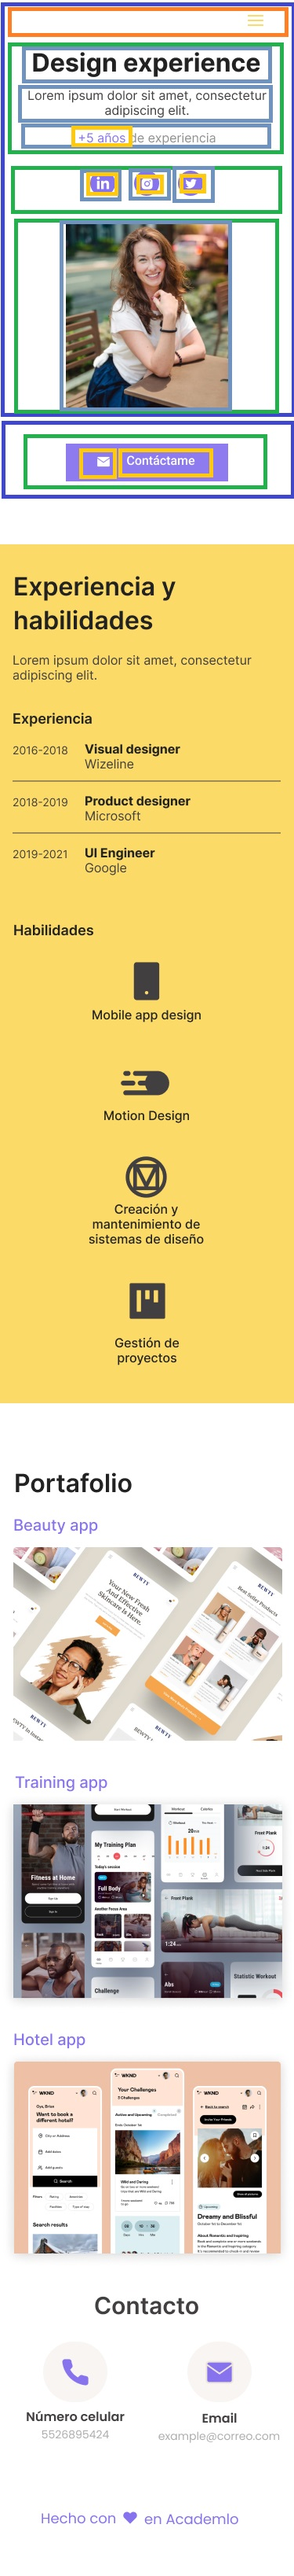
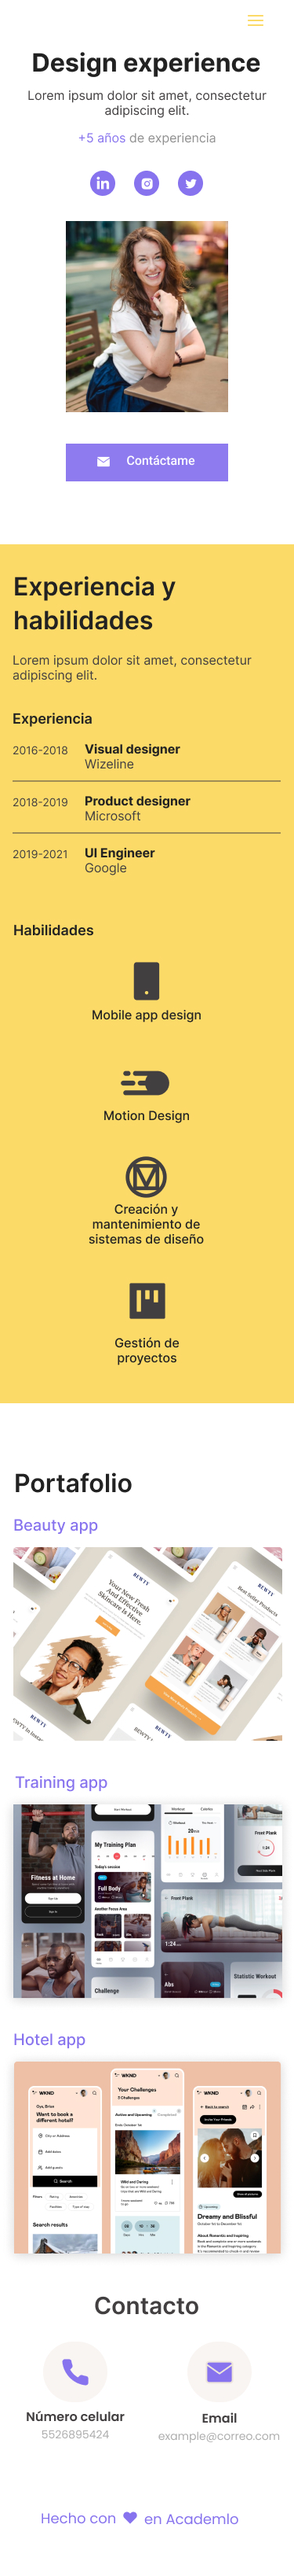
Desarrollando 2 parte

diff --git a/index.html b/index.html
@@ -8,41 +8,88 @@
     <link rel="stylesheet" href="./assents/css/style.css">
 </head>
 <body>
+    <nav class="navbar">
+        <svg class ="navbar-menu" width="24" height="24" viewBox="0 0 24 24" fill="none" xmlns="http://www.w3.org/2000/svg">
+            <path d="M3 12H21" stroke="#FCDA68" stroke-width="2" stroke-linecap="round" stroke-linejoin="round"/>
+            <path d="M3 6H21" stroke="#FCDA68" stroke-width="2" stroke-linecap="round" stroke-linejoin="round"/>
+            <path d="M3 18H21" stroke="#FCDA68" stroke-width="2" stroke-linecap="round" stroke-linejoin="round"/>
+            </svg>
+        </nav>
     <header class="header">
+                       
+        
         <div class="header-contet">
-            <nav class="navbar">
-                <svg class ="navbar-menu" width="24" height="24" viewBox="0 0 24 24" fill="none" xmlns="http://www.w3.org/2000/svg">
-                    <path d="M3 12H21" stroke="#FCDA68" stroke-width="2" stroke-linecap="round" stroke-linejoin="round"/>
-                    <path d="M3 6H21" stroke="#FCDA68" stroke-width="2" stroke-linecap="round" stroke-linejoin="round"/>
-                    <path d="M3 18H21" stroke="#FCDA68" stroke-width="2" stroke-linecap="round" stroke-linejoin="round"/>
-                    </svg>
+            
+                <section class="header-information">
+                <div class="header-text">
+                    <h1>Design experience</h1><br>
+                    <h5>Lorem ipsum dolor sit amet consectetur adipisicing elit.</h5><br> 
+                    <h6><span>+ 5 años </span>de experiencia<span></span></h6>
 
-            </nav>
-            <section class="header-information">
-                <h1>Desing experience</h1>
-                <h6>Lorem ipsum dolor sit amet consectetur adipisicing elit.</h6> 
-                <h6><span>+ 5 años </span>de experiencia<span></span></h6>
-                <div>
+                <div class="social-container">
+                        <article class = "social-circle"> 
+                            <img src="./assents/images/Iconos/linkedin.svg" alt="">
+                        </article>
+                        <article class = "social-circle">
+                            <img src="./assents/images/Iconos/instagram.svg" alt="">                       
+                        </article>
+                        <article class = "social-circle">
+                            <img src="./assents/images/Iconos/twitter.svg" alt="">                         
+                        </article>
+                </div>
+                <div class="sumit-contac">
                     <button type="submit"><img src="./assents/images/Iconos/mail 1.svg" alt="">Contectame</button>
                 </div>
-                <div class="social-container">
-                    <article class = "social-circle"> 
-                        <img src="./assents/images/Iconos/linkedin.svg" alt="">
-                    </article>
-                    <article class = "social-circle">
-                        <img src="./assents/images/Iconos/instagram.svg" alt="">                       
-                    </article>
-                    <article class = "social-circle">
-                        <img src="./assents/images/Iconos/twitter.svg" alt="">                         
-                    </article>
+                    
                 </div>
-                <section class="header-image">
-                    <img src="./assents/images/Imagenes/photo mobile.png" alt="imagen perfil">
-    
+                                
+                <section class="header-contact">
+                    <div class ="header-image">
+                        <img src ="./assents/images/Imagenes/photo mobile.png" alt="imagen perfil">
+                    </div>
+                    
                 </section>
+                
             </section>
             
         </div>
     </header>
+    <main class="main-content">
+        <section class="about-section">
+            <div>
+                <h2 class="section-title">Experiencia y habilidades</h2>
+                <p class="about-text">Lorem ipsum, dolor sit amet consectetur adipisicing elit.</p>
+            </div>
+            <div>
+                <h6 class="experince-title">Experiencia</h6>
+               
+                <p class="experiencie-items">2016-2018 <span>Visual designer</span><br> wiserline</p>
+                <p class="experiencie-items">2018-2019 <span>Produc designer</span><br>Microsoft</p>
+                <p class="experiencie-items">2019-2021 <span>UI Engineer</span><br>Google</p>
+            </div>
+            <section>
+                <div>
+                    <h6 class="experince-title">Habilidades</h6>
+                    <img src="./assents/images/Iconos/mobile.svg" alt="Mobil app">
+                    <p class="experiencie-items">Movil app design</p>
+                </div>
+                <div>
+                    <img src="./assents/images/Iconos/motion.svg" alt="Mobil app">
+                    <p class="experiencie-items">Motion design</p>
+                </div>
+                <div>
+                    <img src="./assents/images/Iconos/material.svg" alt="Mobil app">
+                    <p class="experiencie-items">Creacion y mantenimiento de sistemas de diseño</p>
+                </div>
+                <div>
+                    <img src="./assents/images/Iconos/design.svg" alt="Mobil app">
+                    <p class="experiencie-items">Gestion de proyectos</p>
+                </div>
+            </section>
+            
+        </section>
+        
+
+    </main>
 </body>
 </html>

diff --git a/assents/css/style.css b/assents/css/style.css
@@ -16,10 +16,11 @@
     padding: 0;
     box-sizing: border-box;
 }
-/*Dimensionar imagenes para que no existan desbordes*/
+Dimensionar imagenes para que no existan desbordes
 img{
     max-width: 100%;
     display: block;
+    padding: 2rem;
 }
 
 body{
@@ -46,26 +47,41 @@ body{
     justify-content: space-between;
     text-align: center;
     padding: 0.5rem 1.5rem ;
+   
 }
 
 .heder-image{
     position: relative;
-    padding: 1rem 1rem 0;
-    margin-bottom: 2rem;
+    padding: 1rem 1rem 2rem;
+    margin-bottom:1rem;
+       
 }
 .header-information h1{
-    font-size: 1rem;
+    font-weight: 600;
 }
 
+.header-information h5{
+    font-size: 0.75rem;
+    font-weight: 400;
+}
+
+.header-information h6 {
+    font-size: 0.75rem;
+    font-weight: 300;
+    
+}
 .header-information h6 > span{
     color:var(--lila);
+    font-size: 0.75rem;
+    font-weight: 300;
     
 }
 
+
 .social-container{
-    width: 75%;
+    width: 100%;
     display: flex;
-    gap: 1rem;
+    /*gap: 1rem;*/
     justify-content: space-evenly;
     align-items: center;
     max-width: 400px;
@@ -82,3 +98,100 @@ body{
     align-items: center;
 
 }
+
+.header-contact{
+    padding: 1rem;
+    display: flex;
+    justify-content: center;
+}
+
+
+.sumit-contac{
+    
+    border: 0;
+    color: white;
+    display: flex;
+    gap: 1rem;
+    justify-content: center;
+    align-items: center;
+    /*height: 2.5rem;*/
+    position: relative;
+}
+
+.sumit-contac > button{
+    background-color: var(--lila);
+    width: 150px;
+    border: 0;
+    color: white;
+    display: flex;
+    gap: 1rem;
+    justify-content: center;
+    align-items: center;
+    height: 2.5rem;
+   
+}
+
+.main-content{
+    background-color: var(--yellow);
+    display: flex;
+    flex-direction: column;
+    align-items: flex-start;
+    justify-content: space-between;
+    text-align: center;
+    padding: 0.5rem 1.5rem ;
+   
+}
+
+.section-title{
+    font-size: 15px;
+    text-align: start;
+
+}
+
+.about-section{
+    
+    max-width: 800 px;
+    margin: 0 auto;
+
+}
+
+
+
+
+@media  screen and (min-width: 600px) {
+    .header-information{
+        flex-direction:row;
+        display: flex;
+        justify-content: space-evenly;
+        text-align:start;
+        
+    }
+
+    .social-container {
+        justify-content: start;
+        gap: 1rem;
+    }
+
+    .sumit-contac{
+
+        justify-content: start;
+        font-size: 1rem;
+    }
+
+    .sumit-contac > button {
+
+        height: 2rem;
+   
+    }
+    h1{
+        font-size: 3.5rem;
+    
+    }
+    h5{
+        font-size: 2.5rem;
+    
+    }
+}
+
+
+
